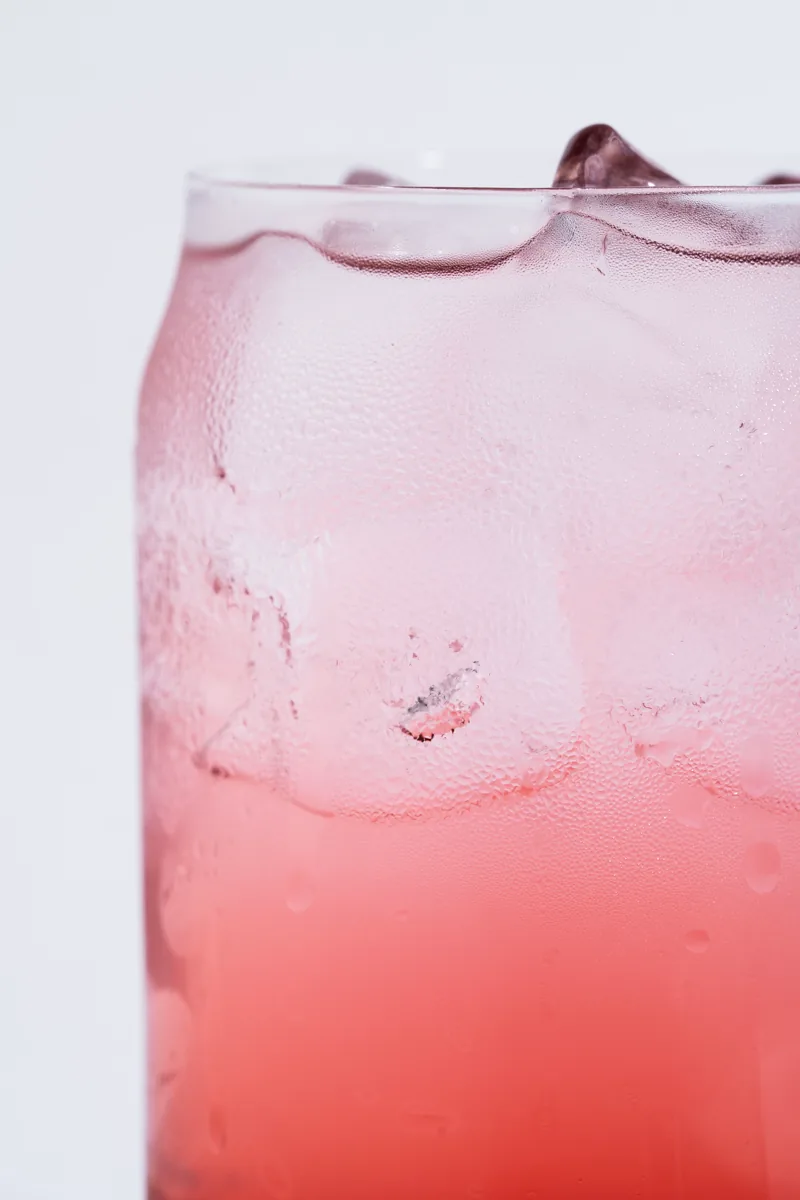
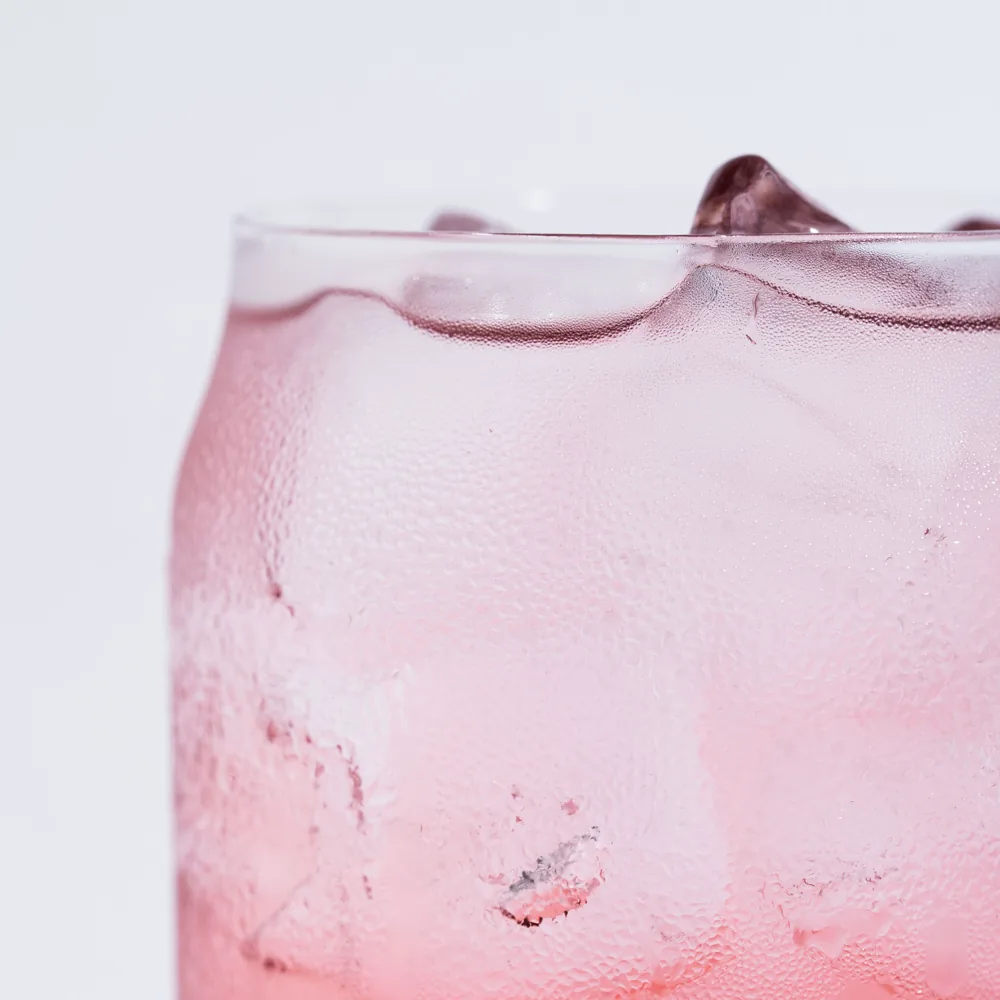
Square-crop the chiller second photos so they fill the gallery frame
Both arrived as 2:3 portraits while the strawberry chiller's second shot is
square, so those two sat in grey bars while it filled the frame edge to edge.
The gallery was behaving correctly - a portrait cannot span a square frame
without losing height - so the fix is in the photos, not the component.

Cropped from the top rather than the centre: both are tight close-ups with the
glass rim near the top, so a centre square landed on featureless liquid while
the top square keeps the rim, ice and the shape of the glass.

diff --git a/src/components/products/productsData.js b/src/components/products/productsData.js
@@ -57,8 +57,8 @@ import sizzlingFajita2 from '../../assets/category/fajita sandwich 2.webp'
 import passionFruit1 from '../../assets/category/passion fruit chiller 1.webp'
 import passionFruit2 from '../../assets/category/passion fruit chiller 2.webp'
 import wildBerry1 from '../../assets/category/wild berry chiller 1.webp'
-// Supplied as a 2:3 portrait like sssc1, so it keeps that ratio rather than being
-// squared off; the gallery switches to object-contain for non-square shots.
+// Supplied as 2:3 portraits, square-cropped from the top so they fill the gallery
+// frame edge to edge like the other chiller shots instead of sitting in bars.
 import wildBerry2 from '../../assets/category/wild berry chiller 2.webp'
 // Shipped exactly as supplied (2:3 portrait, 3857x5786). ProductCard and
 // ProductGallery detect non-square photos and switch to object-contain, so this
